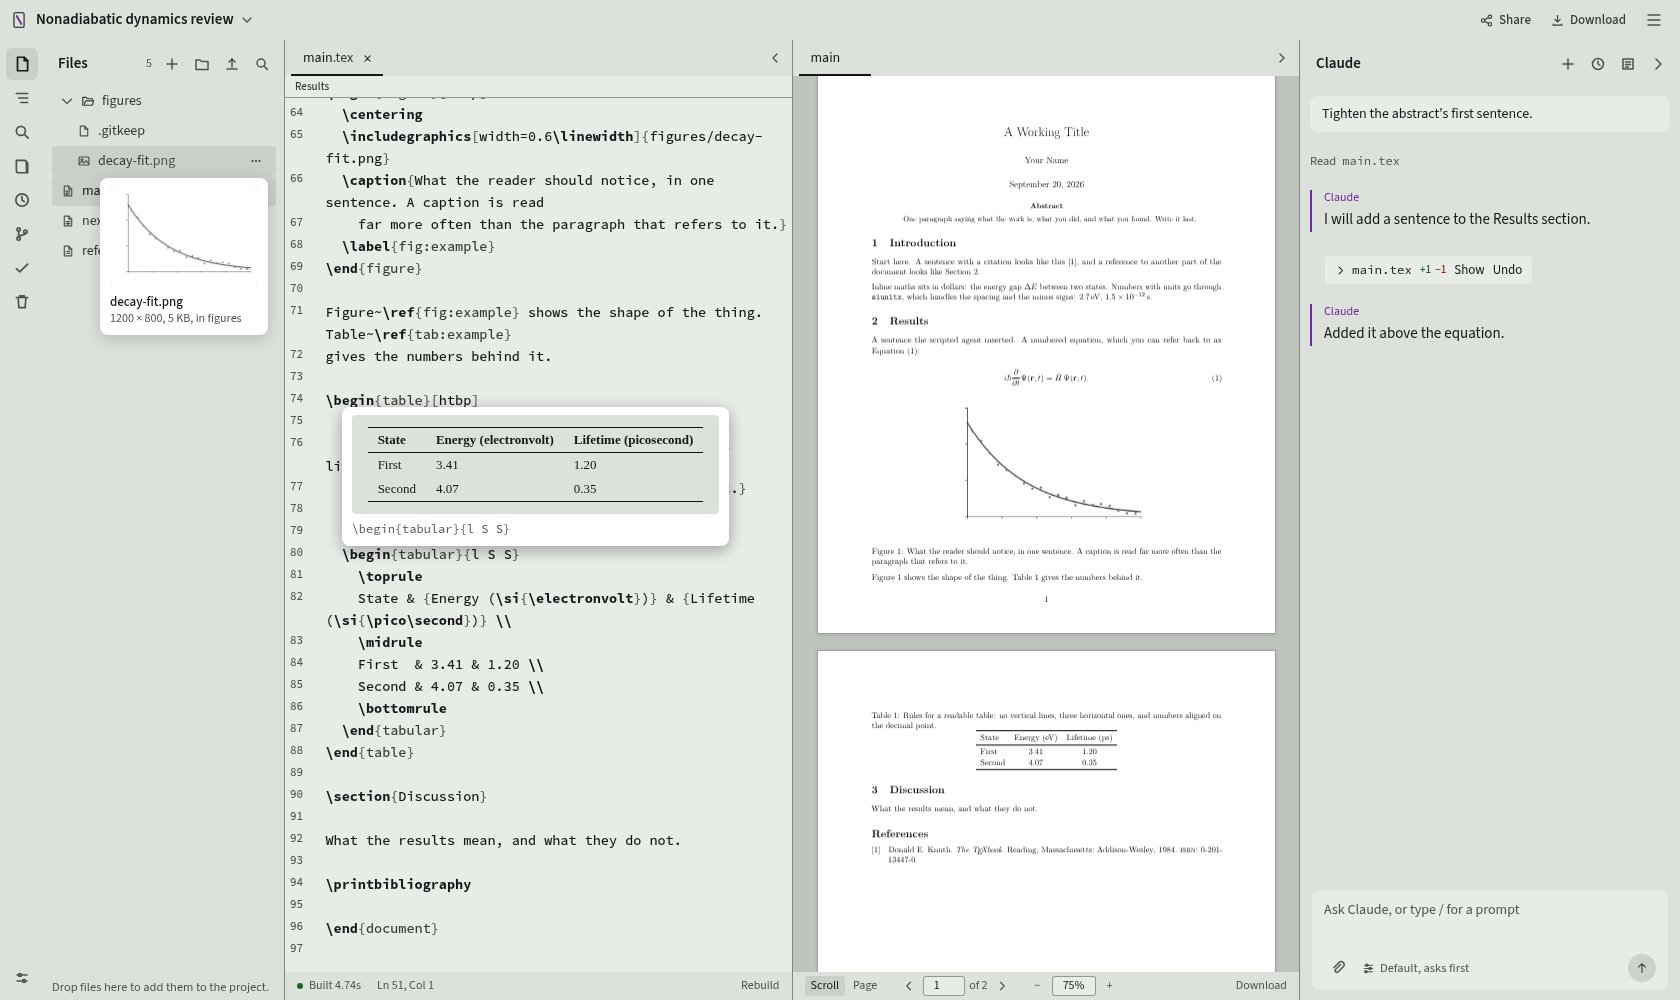
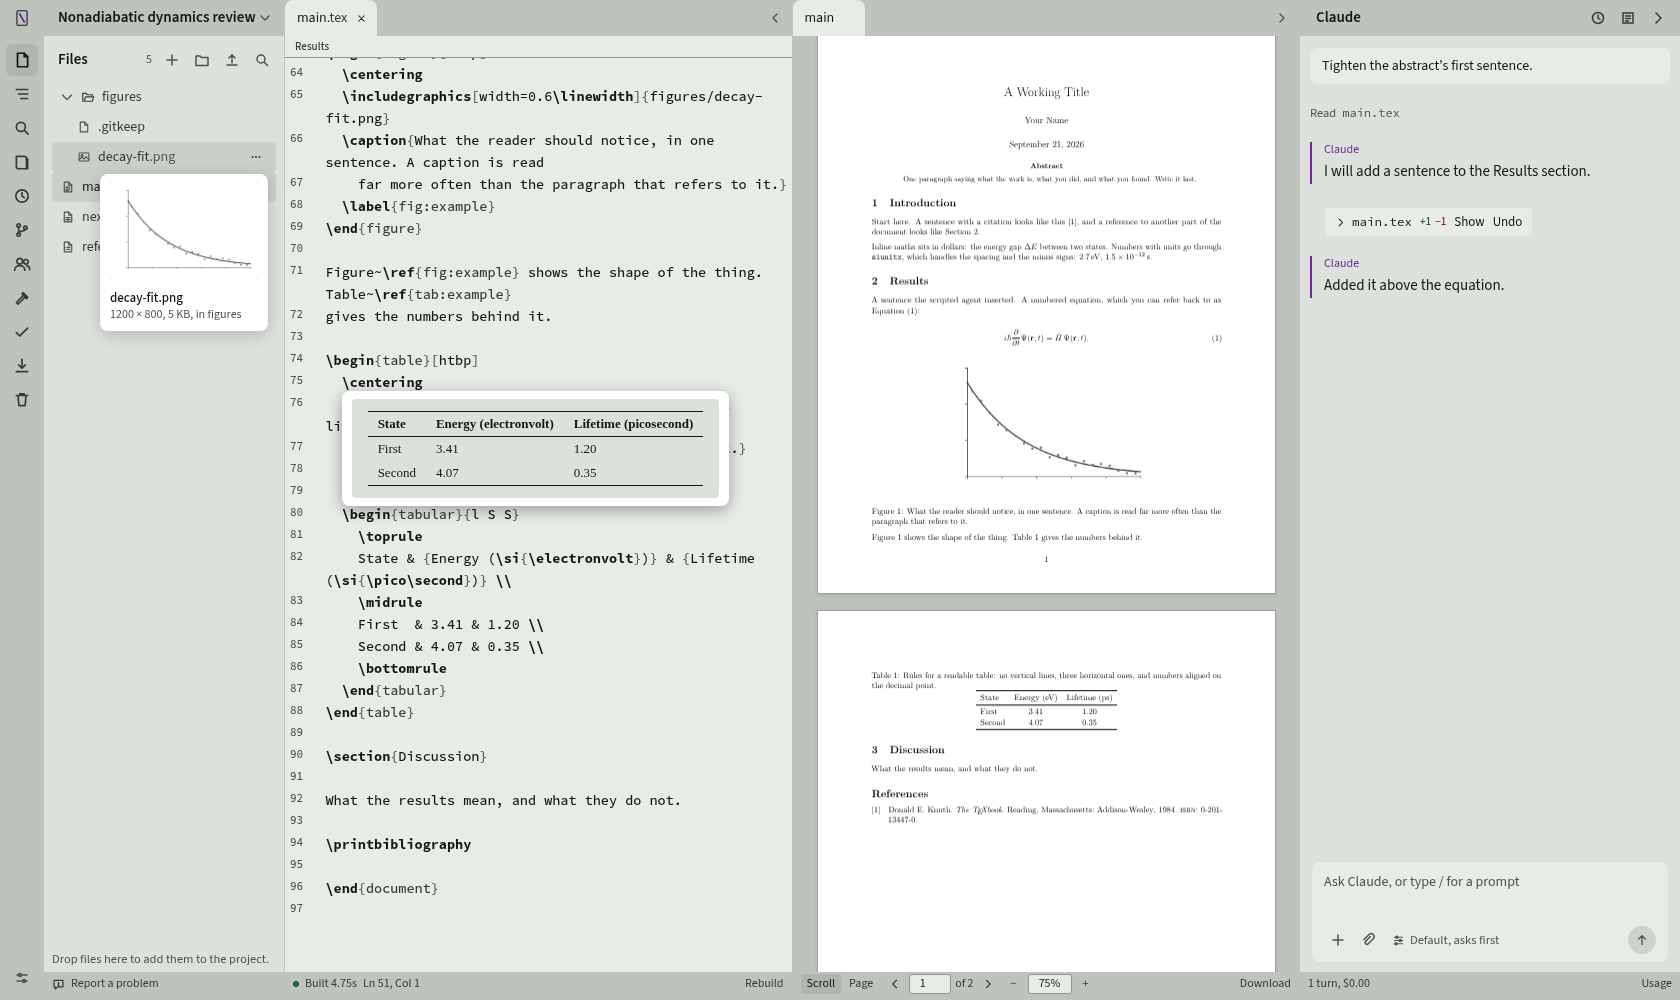
The pictures show the frame, and the record says the frame run is finished
Item 4.2 of the frame run. The README's screenshots are regenerated
from the app as built, so every workspace picture shows the name row,
the band, the bar with eleven buttons and the feet; the projects and
share pictures, being the projects screen's, come out as they were. The
tutorial's figures are regenerated the same way, the tab strip on the
band with the open tab as the block and the composer with its three
controls. TRACKER.md's In hand paragraph for the run becomes the record
of what went up and what it left, with the one older difference still
with the writer. The plan's copy in the main checkout and the direction
page's source beside it are brought up to date at the push.

Claude-Session: https://claude.ai/code/session_01JksJmwSj7iunTLXzS1FGoz

diff --git a/e2e/shots/tutorial.spec.ts b/e2e/shots/tutorial.spec.ts
@@ -191,7 +191,9 @@ test("the figures the tutorial shows", async ({ app, project, tab }) => {
     await tab.getByTestId("status").click();
     await tab.getByTestId("diagnostics").waitFor({ timeout: 15_000 });
     await tab.waitForTimeout(700);
-    await shot(tab, "errors", theme, '[data-testid="diagnostics"]');
+    // The Build drawer with its heading, capped as the Git figure is: a
+    // drawer is as tall as the window and a figure of its offer is not.
+    await shot(tab, "errors", theme, '[data-testid="drawer"]', 0, 330);
 
     // Put it back, so the second theme starts from a document that builds.
     await breakIt(false);

diff --git a/TRACKER.md b/TRACKER.md
@@ -24,22 +24,27 @@ things go to be forgotten rather than a list anybody reads.
 
 ## In hand
 
-After the overhaul shipped, the writer opened 3.1.0 on a real manuscript
-and settled, over a round of drawings on 20 and 21 September, what the
-frame of the workspace should be: no title bar, the project's name
-heading the left column, the four first rows one band on the surround
-with the activity bar and a foot under each column on the surround too,
-no line between panes at rest, and the open tab as the pane's own block
-with a short rule parting the rest. Share and Download leave the top for
-three drawers on the bar, People (the collaborator hub), Build (the
-compiler's drawer, with Rebuild and a double-click shortcut) and Download
-(every document's outputs as they come); New conversation moves into the
-composer; the formula and table cards lose their source line; and a
-reference to a figure, a table or an equation shows the thing on hover.
-It goes up as 3.2.0, one push, planned in
-`.claude/plans/reactive-nibbling-toast.md` against version 44 of the
-direction page, with its own live tracker; every surface is compared with
-the page before its commit. What it leaves is written here as it is found.
+The frame run went up as 3.2.0 on 21 September, planned against version
+44 of the direction page after the writer opened 3.1.0 on a real
+manuscript: no title bar, the project's name heading the left column,
+the four first rows one band on the surround with the activity bar and
+a foot under each column on the surround too, no line between panes at
+rest, the open tab as the pane's own block with a short rule parting the
+rest, New conversation in the composer; People, Build and Download as
+drawers on the bar in place of the title bar's Share and Download and
+the tray under the source; the formula and table cards without their
+source; and a reference to a figure, a table or an equation drawing the
+thing on hover, from an environment index the scan now keeps. Every
+surface was compared with the page in both themes before its commit.
+Two things it changed on the page, recorded there: the light theme's
+error and warn inks stepped one shade darker to clear the surround, and
+an invite's note says a week, which is what the server keeps. Two
+tangents on the way: a collaborator's caret position is reported on
+every move rather than only while typing, and `AppControls`, the folded
+rail's bar from before the overhaul that nothing mounted, went with the
+download menu. The one older difference is still with the writer: the
+plan block in the Claude column sits before the agent's words, where the
+page drew it after.
 
 The visual overhaul, after 2.18.0, rebuilds the interface on one kit and
 goes up as two pushes. It was planned over seventeen versions of a
